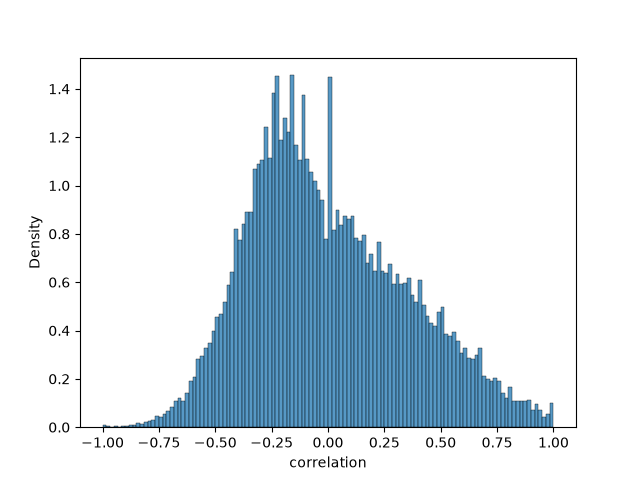
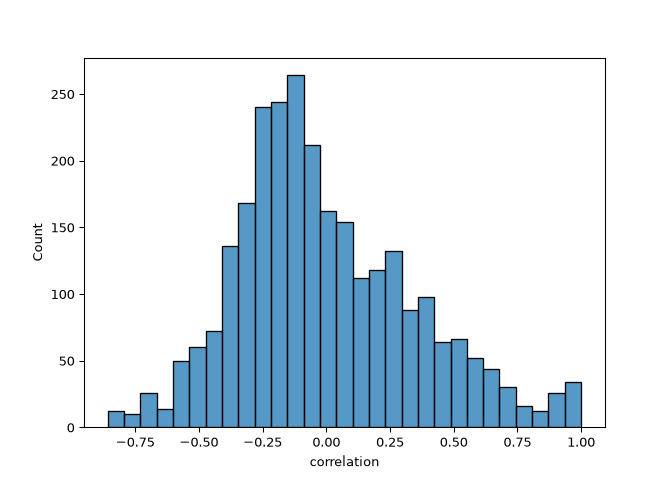
discuss different correlation breakdowns

diff --git a/src/fpl/correlation.py b/src/fpl/correlation.py
@@ -76,7 +76,11 @@ def all_correlations(gw):
 
 def plot_all_correlations(gw,
                           same_team = 0,
-                          same_position = 0):
+                          same_position = 0,
+                          different_team = 0,
+                          different_position = 0,
+                          force_position = 0,
+                          stat='count'):
 
       filepath = here("output/correlations_same_team_"+str(same_team)+"_same_position_"+str(same_position)+".png")
 
@@ -86,9 +90,23 @@ def plot_all_correlations(gw,
       if same_team == 1:
               df = df[df['team_x'] == df['team_y']]
 
+      if same_position == 1:
+             df = df[df['element_type_x'] == df['element_type_y']]
+
+
+      if different_team == 1:
+          df = df[df['team_x'] != df['team_y']]
+      
+      if different_position == 1:
+          df = df[df['element_type_x'] != df['element_type_y']]
+
+      if not force_position == 0:
+            df = df[df['element_type_x']==force_position]
+            df = df[df['element_type_y']==force_position]
+
       ax = sns.histplot(data=df,
                           x="correlation",
-                          stat='density')
+                          stat=stat)
       plot = ax.figure
       plot.savefig(filepath)
       #plt.show()
@@ -98,11 +116,16 @@ def plot_all_correlations(gw,
               'df' : df})
 
 
-def plot_multiple_correlations(same_team_1 = 0, same_position_1 = 0, label_1 = 'all correlations',
-                               same_team_2 = 1, same_position_2 = 0, label_2 = 'intra-team correlations'):
+def plot_multiple_correlations(label_1, label_2, same_team_1=0, same_position_1=0, different_team_1=0, different_position_1=0,
+                               same_team_2=0, same_position_2=0, different_team_2=0, different_position_2=0,
+                               force_position = 0):
 
-      df1 = plot_all_correlations(gw=10, same_team = same_team_1, same_position = same_position_1)['df']
-      df2 = plot_all_correlations(gw=10, same_team = same_team_2, same_position = same_position_2)['df']
+      df1 = plot_all_correlations(gw=10, same_team = same_team_1, same_position = same_position_1,
+                                  different_team=different_team_1, different_position=different_position_1,
+                                  force_position=force_position)['df']
+      df2 = plot_all_correlations(gw=10, same_team = same_team_2, same_position = same_position_2,
+                                 different_team=different_team_2, different_position=different_position_2,
+                                 force_position=force_position)['df']
 
       fig, ax = plt.subplots(figsize=(8, 5))
 
@@ -110,8 +133,10 @@ def plot_multiple_correlations(same_team_1 = 0, same_position_1 = 0, label_1 = '
       sns.histplot(data=df2, stat='density', x="correlation", ax=ax, color="tab:orange", alpha=0.5, label=label_2)
 
       ax.legend()
-      plt.show()
+      #plt.show()
       plt.close(fig)
+
+      return(fig)
 
 if __name__ == '__main__':
     print("running...")
